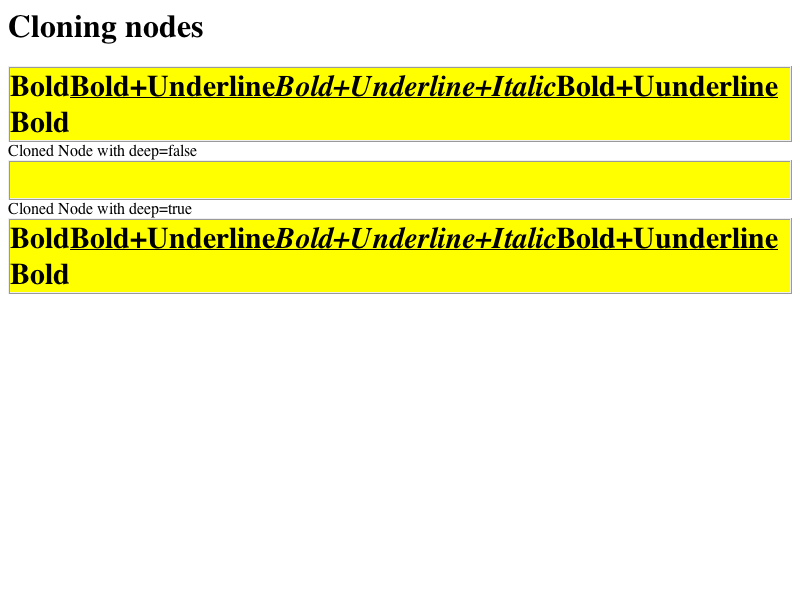
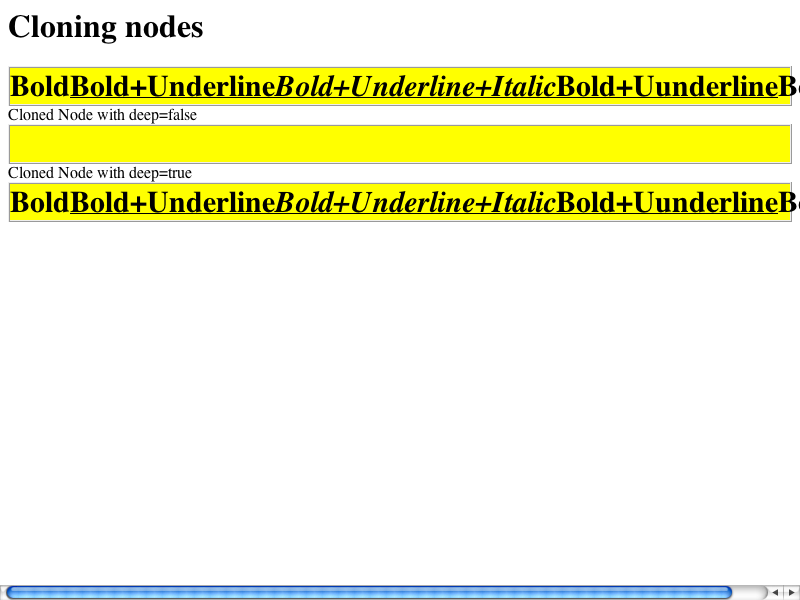
2010-02-07  Yuzo Fujishima  <yuzo@google.com>
Reviewed by Dan Bernstein.

        Fix the following bugs:
        https://bugs.webkit.org/show_bug.cgi?id=18926 - dt:after generate a line break. Boost documentation page renders poorly
        https://bugs.webkit.org/show_bug.cgi?id=7276 - Most W3C padding related tests fail

        css2.1/t0803-c5504-imrgn-l-02-b-ag-expected.html and css2.1/t0804-c5509-ipadn-l-02-b-ag-expected.html have been rebaselined
        because the original expected values are incorrect, judging from the test description and how IE 8.0, Firefox 3.6, and Opera 10.10 render the pages.
        fast/dom/clone-node-dynamic-style-expected.html have been also rebaselined because the original expected values assumes a line break.
        Expected values under platform/qt need not be updated because the tests are in the Skipped file for the platform.

        * fast/css/inline-element-line-break.html: Added.
        * fast/css/pseudo-element-line-break.html: Added.
        * platform/mac/css2.1/t0803-c5504-imrgn-l-02-b-ag-expected.checksum:
        * platform/mac/css2.1/t0803-c5504-imrgn-l-02-b-ag-expected.png:
        * platform/mac/css2.1/t0803-c5504-imrgn-l-02-b-ag-expected.txt:
        * platform/mac/css2.1/t0804-c5509-ipadn-l-02-b-ag-expected.checksum:
        * platform/mac/css2.1/t0804-c5509-ipadn-l-02-b-ag-expected.png:
        * platform/mac/css2.1/t0804-c5509-ipadn-l-02-b-ag-expected.txt:
        * platform/mac/fast/css/inline-element-line-break-expected.checksum: Added.
[…]

Changed region(s): [[0.0, 0.12, 1.0, 0.51], [0.0, 0.96, 1.0, 1.0]]

diff --git a/fast/css/inline-element-line-break.html b/fast/css/inline-element-line-break.html
@@ -1,0 +1,45 @@
+<html>
+<head>
+<style type="text/css">
+p {
+  border:medium solid blue;
+  width: 5em;
+}
+
+p.a:before{
+  content: "AAAAAAAAA";
+}
+
+p.ab:before{
+  content: "AAAA BBBB";
+}
+
+p.az:before{
+  content: "AAAAAAAAA";
+}
+p.az:after{
+  content: "ZZZZZZZZZ";
+}
+
+p.yz:after{
+  content: "YYYY ZZZZ";
+}
+
+p.z:after{
+  content: "ZZZZZZZZZ";
+}
+</style>
+</head>
+
+<body>
+<!-- line break must not occur at pseudo element (:before, :after) boundaries. -->
+<p><span>AAAAAAAAA</span>AA BB</p>
+<p><span>AAAAAAAAA</span>AAAAA</p>
+<p><span>AAAA</span> <span>BBBB</span>BBBBB</p>
+<p><span>AAAAAAAAA</span>AA ZZ<span>ZZZZZZZZZ</span></p>
+<p><span>AAAAAAAAA</span>MMMMM<span>ZZZZZZZZZ</span></p>
+<p>YYYYY<span>YYYY</span> <span>ZZZZ</span></p>
+<p>YY ZZ<span>ZZZZZZZZZ</span></p>
+<p>ZZZZZ<span>ZZZZZZZZZ</span></p>
+</html>
+

diff --git a/fast/css/pseudo-element-line-break.html b/fast/css/pseudo-element-line-break.html
@@ -1,0 +1,45 @@
+<html>
+<head>
+<style type="text/css">
+p {
+  border:medium solid blue;
+  width: 5em;
+}
+
+p.a:before{
+  content: "AAAAAAAAA";
+}
+
+p.ab:before{
+  content: "AAAA BBBB";
+}
+
+p.az:before{
+  content: "AAAAAAAAA";
+}
+p.az:after{
+  content: "ZZZZZZZZZ";
+}
+
+p.yz:after{
+  content: "YYYY ZZZZ";
+}
+
+p.z:after{
+  content: "ZZZZZZZZZ";
+}
+</style>
+</head>
+
+<body>
+<!-- line break must not occur at pseudo element (:before, :after) boundaries. -->
+<p class="a">AA BB</p>
+<p class="a">AAAAA</p>
+<p class="ab">BBBBB</p>
+<p class="az">AA ZZ</p>
+<p class="az">MMMMM</p>
+<p class="yz">YYYYY</p>
+<p class="z">YY ZZ</p>
+<p class="z">ZZZZZ</p>
+</html>
+
